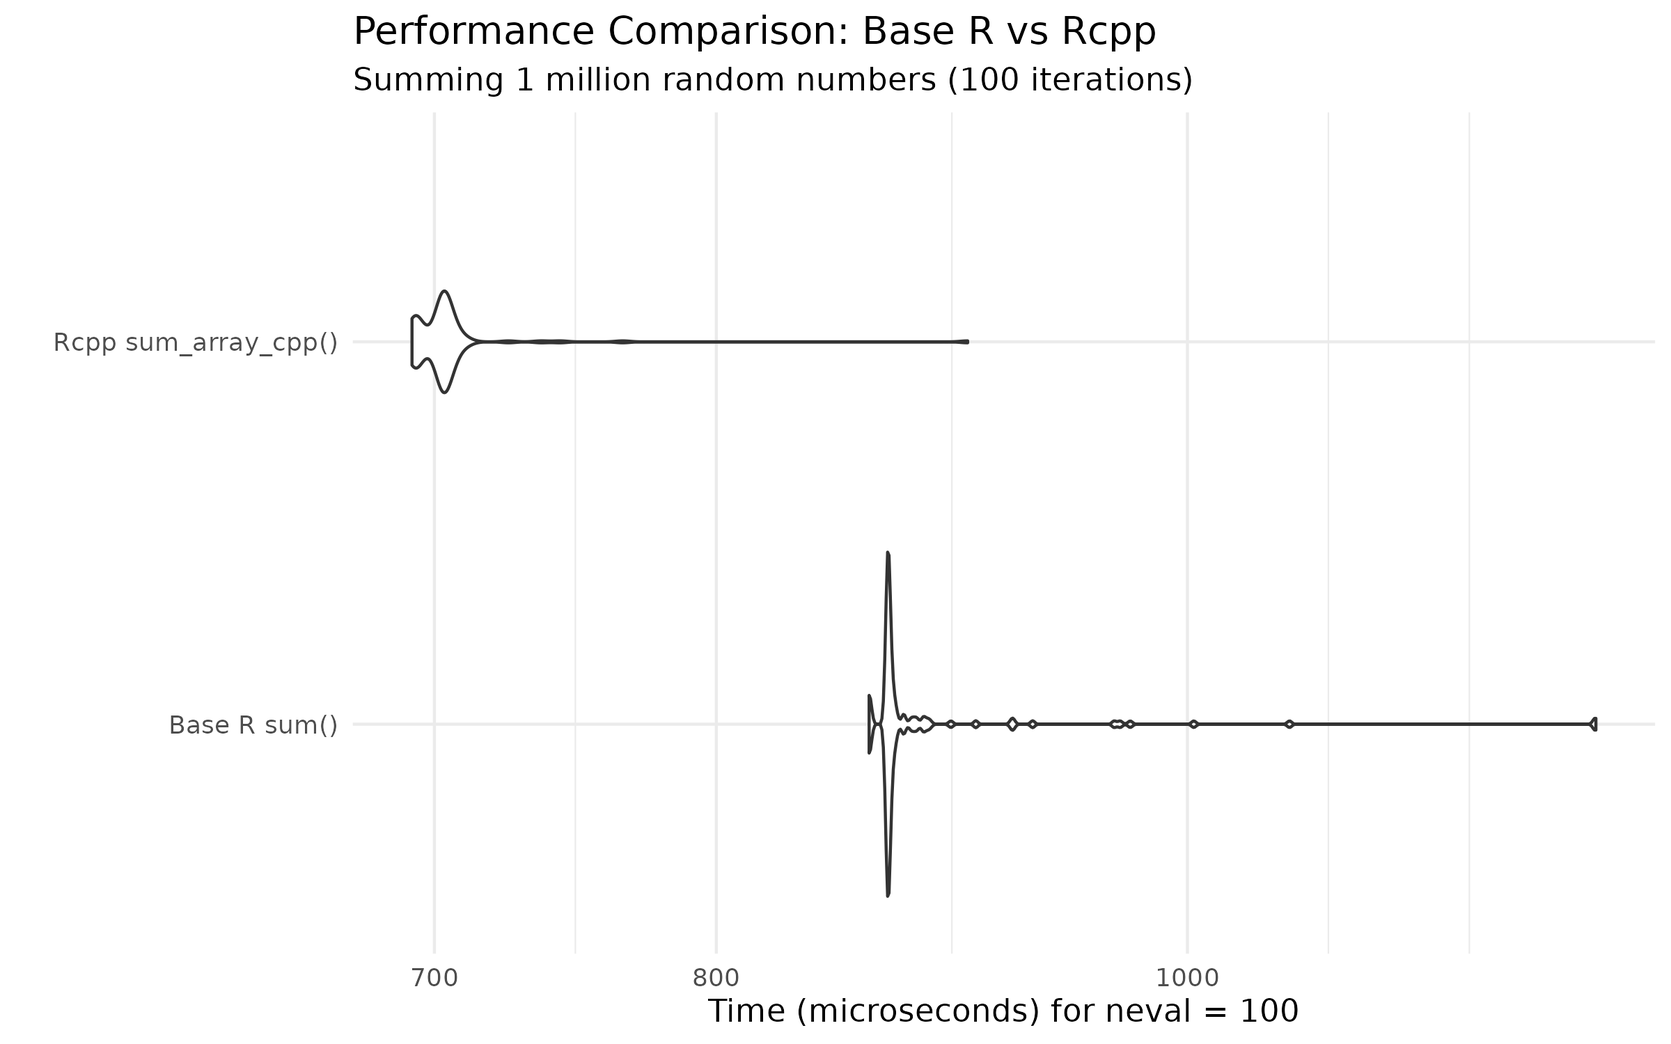
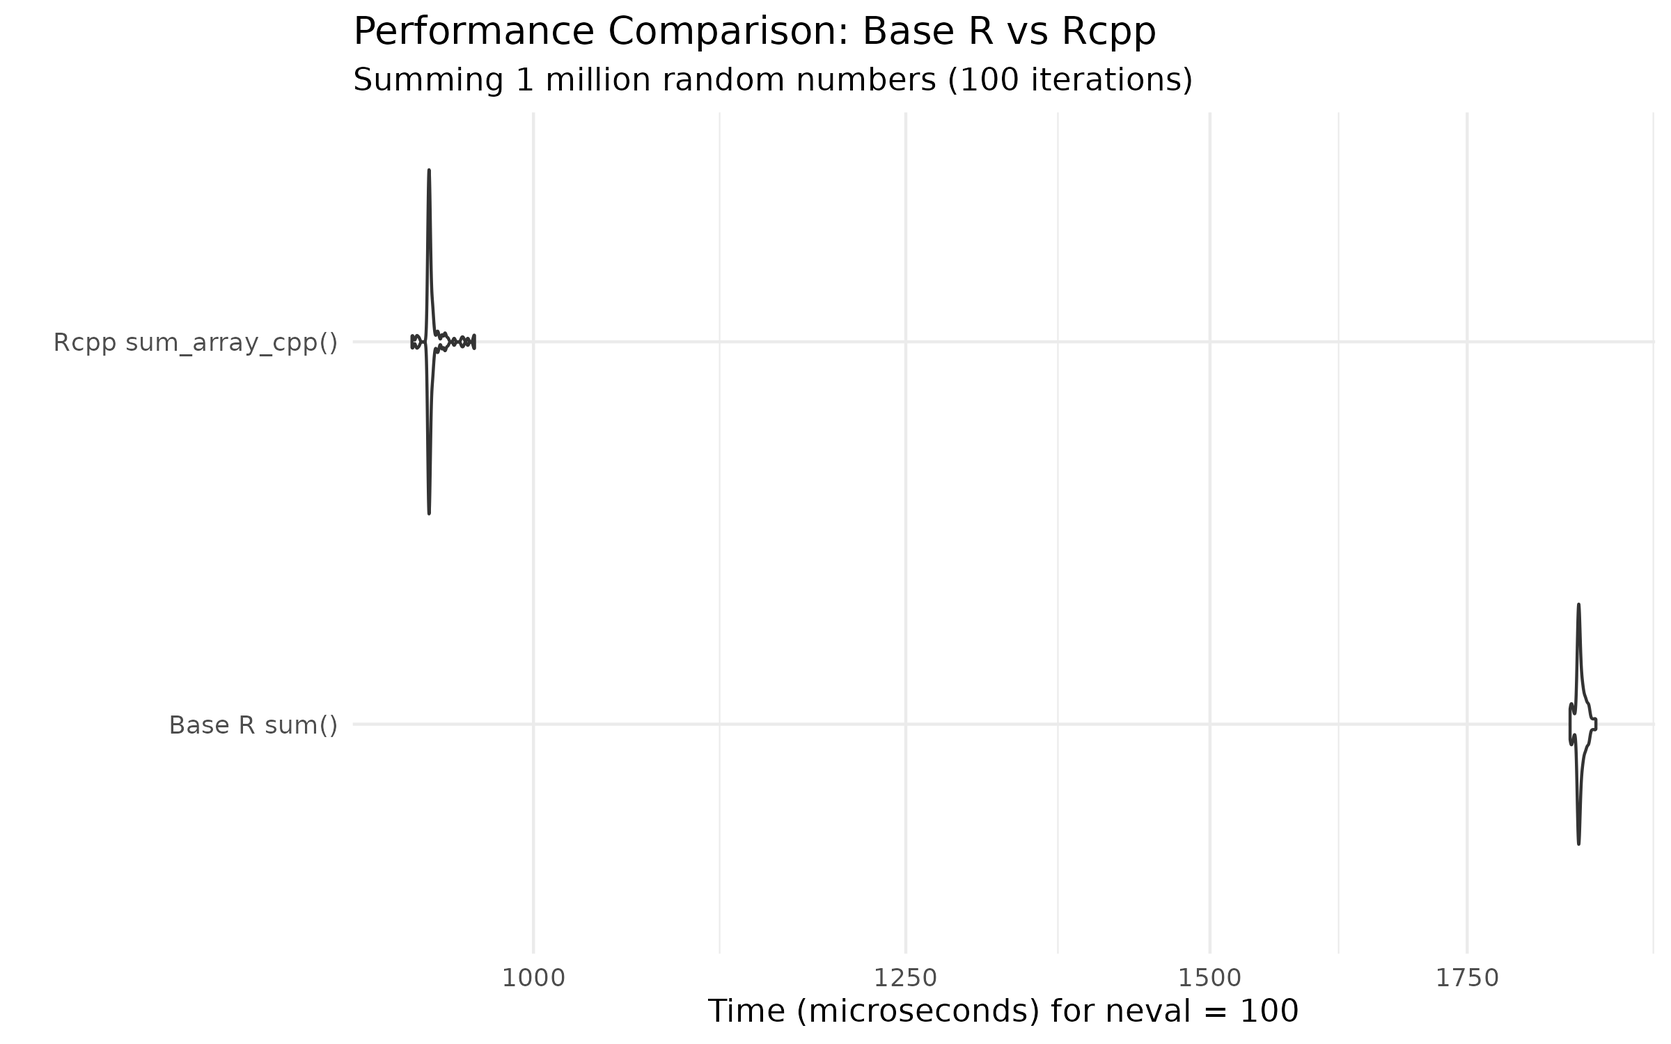
Built site for templateRpackage@0.0.0.9000: 4d5cc9d

diff --git a/404.html b/404.html
@@ -6,19 +6,19 @@
 <meta http-equiv="X-UA-Compatible" content="IE=edge">
 <meta name="viewport" content="width=device-width, initial-scale=1, shrink-to-fit=no">
 <title>Page not found (404) • templateRpackage</title>
-<script src="https://dereckmezquita.github.io/template-R-package/deps/jquery-3.6.0/jquery-3.6.0.min.js"></script><meta name="viewport" content="width=device-width, initial-scale=1, shrink-to-fit=no">
-<link href="https://dereckmezquita.github.io/template-R-package/deps/bootstrap-5.3.1/bootstrap.min.css" rel="stylesheet">
-<script src="https://dereckmezquita.github.io/template-R-package/deps/bootstrap-5.3.1/bootstrap.bundle.min.js"></script><link href="https://dereckmezquita.github.io/template-R-package/deps/font-awesome-6.5.2/css/all.min.css" rel="stylesheet">
-<link href="https://dereckmezquita.github.io/template-R-package/deps/font-awesome-6.5.2/css/v4-shims.min.css" rel="stylesheet">
-<script src="https://dereckmezquita.github.io/template-R-package/deps/headroom-0.11.0/headroom.min.js"></script><script src="https://dereckmezquita.github.io/template-R-package/deps/headroom-0.11.0/jQuery.headroom.min.js"></script><script src="https://dereckmezquita.github.io/template-R-package/deps/bootstrap-toc-1.0.1/bootstrap-toc.min.js"></script><script src="https://dereckmezquita.github.io/template-R-package/deps/clipboard.js-2.0.11/clipboard.min.js"></script><script src="https://dereckmezquita.github.io/template-R-package/deps/search-1.0.0/autocomplete.jquery.min.js"></script><script src="https://dereckmezquita.github.io/template-R-package/deps/search-1.0.0/fuse.min.js"></script><script src="https://dereckmezquita.github.io/template-R-package/deps/search-1.0.0/mark.min.js"></script><!-- pkgdown --><script src="https://dereckmezquita.github.io/template-R-package/pkgdown.js"></script><meta property="og:title" content="Page not found (404)">
+<script src="https://dereckmezquita.github.io/templateRpackage/deps/jquery-3.6.0/jquery-3.6.0.min.js"></script><meta name="viewport" content="width=device-width, initial-scale=1, shrink-to-fit=no">
+<link href="https://dereckmezquita.github.io/templateRpackage/deps/bootstrap-5.3.1/bootstrap.min.css" rel="stylesheet">
+<script src="https://dereckmezquita.github.io/templateRpackage/deps/bootstrap-5.3.1/bootstrap.bundle.min.js"></script><link href="https://dereckmezquita.github.io/templateRpackage/deps/font-awesome-6.5.2/css/all.min.css" rel="stylesheet">
+<link href="https://dereckmezquita.github.io/templateRpackage/deps/font-awesome-6.5.2/css/v4-shims.min.css" rel="stylesheet">
+<script src="https://dereckmezquita.github.io/templateRpackage/deps/headroom-0.11.0/headroom.min.js"></script><script src="https://dereckmezquita.github.io/templateRpackage/deps/headroom-0.11.0/jQuery.headroom.min.js"></script><script src="https://dereckmezquita.github.io/templateRpackage/deps/bootstrap-toc-1.0.1/bootstrap-toc.min.js"></script><script src="https://dereckmezquita.github.io/templateRpackage/deps/clipboard.js-2.0.11/clipboard.min.js"></script><script src="https://dereckmezquita.github.io/templateRpackage/deps/search-1.0.0/autocomplete.jquery.min.js"></script><script src="https://dereckmezquita.github.io/templateRpackage/deps/search-1.0.0/fuse.min.js"></script><script src="https://dereckmezquita.github.io/templateRpackage/deps/search-1.0.0/mark.min.js"></script><!-- pkgdown --><script src="https://dereckmezquita.github.io/templateRpackage/pkgdown.js"></script><meta property="og:title" content="Page not found (404)">
 </head>
 <body>
-    <a href="https://dereckmezquita.github.io/template-R-package/#main" class="visually-hidden-focusable">Skip to contents</a>
+    <a href="https://dereckmezquita.github.io/templateRpackage/#main" class="visually-hidden-focusable">Skip to contents</a>
 
 
     <nav class="navbar navbar-expand-lg fixed-top bg-light" data-bs-theme="light" aria-label="Site navigation"><div class="container">
 
-    <a class="navbar-brand me-2" href="https://dereckmezquita.github.io/template-R-package/index.html">templateRpackage</a>
+    <a class="navbar-brand me-2" href="https://dereckmezquita.github.io/templateRpackage/index.html">templateRpackage</a>
 
     <small class="nav-text text-muted me-auto" data-bs-toggle="tooltip" data-bs-placement="bottom" title="">0.0.0.9000</small>
 
@@ -29,11 +29,11 @@
 
     <div id="navbar" class="collapse navbar-collapse ms-3">
       <ul class="navbar-nav me-auto">
-<li class="nav-item"><a class="nav-link" href="https://dereckmezquita.github.io/template-R-package/reference/index.html">Reference</a></li>
+<li class="nav-item"><a class="nav-link" href="https://dereckmezquita.github.io/templateRpackage/reference/index.html">Reference</a></li>
 <li class="nav-item dropdown">
   <button class="nav-link dropdown-toggle" type="button" id="dropdown-articles" data-bs-toggle="dropdown" aria-expanded="false" aria-haspopup="true">Articles</button>
   <ul class="dropdown-menu" aria-labelledby="dropdown-articles">
-<li><a class="dropdown-item" href="https://dereckmezquita.github.io/template-R-package/articles/demo.html">Demonstrating templateRpackage</a></li>
+<li><a class="dropdown-item" href="https://dereckmezquita.github.io/templateRpackage/articles/demo.html">Demonstrating templateRpackage</a></li>
   </ul>
 </li>
       </ul>
@@ -41,7 +41,7 @@
 <li class="nav-item"><form class="form-inline" role="search">
  <input class="form-control" type="search" name="search-input" id="search-input" autocomplete="off" aria-label="Search site" placeholder="Search for" data-search-index="search.json">
 </form></li>
-<li class="nav-item"><a class="external-link nav-link" href="https://github.com/dereckmezquita/template-R-package" aria-label="GitHub repository"><span class="fa fa-github"></span></a></li>
+<li class="nav-item"><a class="external-link nav-link" href="https://github.com/dereckmezquita/templateRpackage" aria-label="GitHub repository"><span class="fa fa-github"></span></a></li>
       </ul>
 </div>
 

diff --git a/news/index.html b/news/index.html
@@ -22,7 +22,7 @@
   </ul></li>
       </ul><ul class="navbar-nav"><li class="nav-item"><form class="form-inline" role="search">
  <input class="form-control" type="search" name="search-input" id="search-input" autocomplete="off" aria-label="Search site" placeholder="Search for" data-search-index="../search.json"></form></li>
-<li class="nav-item"><a class="external-link nav-link" href="https://github.com/dereckmezquita/template-R-package" aria-label="GitHub repository"><span class="fa fa-github"></span></a></li>
+<li class="nav-item"><a class="external-link nav-link" href="https://github.com/dereckmezquita/templateRpackage" aria-label="GitHub repository"><span class="fa fa-github"></span></a></li>
       </ul></div>
 
 
@@ -32,10 +32,33 @@
   <main id="main" class="col-md-9"><div class="page-header">
 
       <h1>Changelog</h1>
-      <small>Source: <a href="https://github.com/dereckmezquita/template-R-package/blob/master/NEWS.md" class="external-link"><code>NEWS.md</code></a></small>
+      <small>Source: <a href="https://github.com/dereckmezquita/templateRpackage/blob/master/NEWS.md" class="external-link"><code>NEWS.md</code></a></small>
     </div>
 
-  </main></div>
+    <div class="section level2">
+<h2 class="pkg-version" data-toc-text="0.0.1" id="templaterpackage-v001">templateRpackage <a href="https://github.com/dereckmezquita/templateRpackage/milestone/1" class="external-link">v0.0.1</a>
+<a class="anchor" aria-label="anchor" href="#templaterpackage-v001"></a></h2>
+<div class="section level3">
+<h3 id="breaking-changes-0-0-1">BREAKING CHANGES<a class="anchor" aria-label="anchor" href="#breaking-changes-0-0-1"></a></h3>
+</div>
+<div class="section level3">
+<h3 id="new-features-0-0-1">NEW FEATURES<a class="anchor" aria-label="anchor" href="#new-features-0-0-1"></a></h3>
+</div>
+<div class="section level3">
+<h3 id="improvements-0-0-1">IMPROVEMENTS<a class="anchor" aria-label="anchor" href="#improvements-0-0-1"></a></h3>
+</div>
+<div class="section level3">
+<h3 id="documentation-0-0-1">DOCUMENTATION<a class="anchor" aria-label="anchor" href="#documentation-0-0-1"></a></h3>
+</div>
+<div class="section level3">
+<h3 id="development-0-0-1">DEVELOPMENT<a class="anchor" aria-label="anchor" href="#development-0-0-1"></a></h3>
+</div>
+<div class="section level3">
+<h3 id="notes-0-0-1">NOTES<a class="anchor" aria-label="anchor" href="#notes-0-0-1"></a></h3>
+</div>
+</div>
+  </main><aside class="col-md-3"><nav id="toc" aria-label="Table of contents"><h2>On this page</h2>
+    </nav></aside></div>
 
 
     <footer><div class="pkgdown-footer-left">

diff --git a/articles/demo.html b/articles/demo.html
@@ -41,7 +41,7 @@
 <li class="nav-item"><form class="form-inline" role="search">
  <input class="form-control" type="search" name="search-input" id="search-input" autocomplete="off" aria-label="Search site" placeholder="Search for" data-search-index="../search.json">
 </form></li>
-<li class="nav-item"><a class="external-link nav-link" href="https://github.com/dereckmezquita/template-R-package" aria-label="GitHub repository"><span class="fa fa-github"></span></a></li>
+<li class="nav-item"><a class="external-link nav-link" href="https://github.com/dereckmezquita/templateRpackage" aria-label="GitHub repository"><span class="fa fa-github"></span></a></li>
       </ul>
 </div>
 
@@ -58,7 +58,7 @@
       <h1>Demonstrating templateRpackage</h1>
             
       
-      <small class="dont-index">Source: <a href="https://github.com/dereckmezquita/template-R-package/blob/master/vignettes/demo.Rmd" class="external-link"><code>vignettes/demo.Rmd</code></a></small>
+      <small class="dont-index">Source: <a href="https://github.com/dereckmezquita/templateRpackage/blob/master/vignettes/demo.Rmd" class="external-link"><code>vignettes/demo.Rmd</code></a></small>
       <div class="d-none name"><code>demo.Rmd</code></div>
     </div>
 
@@ -132,9 +132,9 @@ base R’s <code><a href="https://rdrr.io/r/base/sum.html" class="external-link"
 <span></span>
 <span><span class="fu"><a href="https://rdrr.io/r/base/print.html" class="external-link">print</a></span><span class="op">(</span><span class="va">mb</span><span class="op">)</span></span>
 <span><span class="co">#&gt; Unit: microseconds</span></span>
-<span><span class="co">#&gt;                  expr     min       lq     mean   median       uq      max</span></span>
-<span><span class="co">#&gt;          Base R sum() 860.047 867.5975 884.0566 868.0165 870.7625 1213.467</span></span>
-<span><span class="co">#&gt;  Rcpp sum_array_cpp() 692.610 695.1615 704.5312 702.8320 704.2795  901.143</span></span>
+<span><span class="co">#&gt;                  expr      min       lq      mean   median       uq      max</span></span>
+<span><span class="co">#&gt;          Base R sum() 1861.301 1870.258 1872.9103 1871.541 1875.643 1890.335</span></span>
+<span><span class="co">#&gt;  Rcpp sum_array_cpp()  929.774  939.046  941.2256  939.567  941.125  965.280</span></span>
 <span><span class="co">#&gt;  neval</span></span>
 <span><span class="co">#&gt;    100</span></span>
 <span><span class="co">#&gt;    100</span></span></code></pre></div>

diff --git a/authors.html b/authors.html
@@ -22,7 +22,7 @@
   </ul></li>
       </ul><ul class="navbar-nav"><li class="nav-item"><form class="form-inline" role="search">
  <input class="form-control" type="search" name="search-input" id="search-input" autocomplete="off" aria-label="Search site" placeholder="Search for" data-search-index="search.json"></form></li>
-<li class="nav-item"><a class="external-link nav-link" href="https://github.com/dereckmezquita/template-R-package" aria-label="GitHub repository"><span class="fa fa-github"></span></a></li>
+<li class="nav-item"><a class="external-link nav-link" href="https://github.com/dereckmezquita/templateRpackage" aria-label="GitHub repository"><span class="fa fa-github"></span></a></li>
       </ul></div>
 
 
@@ -45,15 +45,15 @@
 
     <div class="section level2">
       <h2 id="citation">Citation</h2>
-      <p><small class="dont-index">Source: <a href="https://github.com/dereckmezquita/template-R-package/blob/master/inst/CITATION" class="external-link"><code>inst/CITATION</code></a></small></p>
+      <p><small class="dont-index">Source: <a href="https://github.com/dereckmezquita/templateRpackage/blob/master/inst/CITATION" class="external-link"><code>inst/CITATION</code></a></small></p>
 
-      <p>Mezquita, D. (2024). dereck: A personal development package by Dereck Mezquita for various data analysis and visualisation tasks. Intended as a staging ground for experimental code that may later be factored into standalone packages. R package version 2.0.0. Available at https://github.com/dereckmezquita/dereck</p>
-      <pre>@Manual{dereck-2024,
-  title = {dereck: A personal development package by Dereck Mezquita for various data analysis and visualisation tasks. Intended as a staging ground for experimental code that may later be factored into standalone packages.},
+      <p>Mezquita, D. (2026). templateRpackage: A Template R Package with Rcpp Support. R package version 0.0.0.9000. Available at https://github.com/dereckmezquita/templateRpackage</p>
+      <pre>@Manual{templateRpackage-2026,
+  title = {templateRpackage: A Template R Package with Rcpp Support},
   author = {Dereck Mezquita},
-  year = {2024},
-  note = {R package version 2.0.0},
-  url = {https://github.com/dereckmezquita/dereck},
+  year = {2026},
+  note = {R package version 0.0.0.9000},
+  url = {https://github.com/dereckmezquita/templateRpackage},
 }</pre>
     </div>
 

diff --git a/reference/sum_array_cpp.html b/reference/sum_array_cpp.html
@@ -22,7 +22,7 @@
   </ul></li>
       </ul><ul class="navbar-nav"><li class="nav-item"><form class="form-inline" role="search">
  <input class="form-control" type="search" name="search-input" id="search-input" autocomplete="off" aria-label="Search site" placeholder="Search for" data-search-index="../search.json"></form></li>
-<li class="nav-item"><a class="external-link nav-link" href="https://github.com/dereckmezquita/template-R-package" aria-label="GitHub repository"><span class="fa fa-github"></span></a></li>
+<li class="nav-item"><a class="external-link nav-link" href="https://github.com/dereckmezquita/templateRpackage" aria-label="GitHub repository"><span class="fa fa-github"></span></a></li>
       </ul></div>
 
 
@@ -32,7 +32,7 @@
   <main id="main" class="col-md-9"><div class="page-header">
 
       <h1>Sum a numeric vector using loop unrolling</h1>
-      <small class="dont-index">Source: <a href="https://github.com/dereckmezquita/template-R-package/blob/master/R/RcppExports.R" class="external-link"><code>R/RcppExports.R</code></a></small>
+      <small class="dont-index">Source: <a href="https://github.com/dereckmezquita/templateRpackage/blob/master/R/RcppExports.R" class="external-link"><code>R/RcppExports.R</code></a></small>
       <div class="d-none name"><code>sum_array_cpp.Rd</code></div>
     </div>
 

diff --git a/index.html b/index.html
@@ -43,7 +43,7 @@
 <li class="nav-item"><form class="form-inline" role="search">
  <input class="form-control" type="search" name="search-input" id="search-input" autocomplete="off" aria-label="Search site" placeholder="Search for" data-search-index="search.json">
 </form></li>
-<li class="nav-item"><a class="external-link nav-link" href="https://github.com/dereckmezquita/template-R-package" aria-label="GitHub repository"><span class="fa fa-github"></span></a></li>
+<li class="nav-item"><a class="external-link nav-link" href="https://github.com/dereckmezquita/templateRpackage" aria-label="GitHub repository"><span class="fa fa-github"></span></a></li>
       </ul>
 </div>
 
@@ -56,8 +56,8 @@ What the package does (one paragraph).
   </main><aside class="col-md-3"><div class="links">
 <h2 data-toc-skip>Links</h2>
 <ul class="list-unstyled">
-<li><a href="https://github.com/dereckmezquita/template-R-package/" class="external-link">Browse source code</a></li>
-<li><a href="https://github.com/dereckmezquita/template-R-package/issues" class="external-link">Report a bug</a></li>
+<li><a href="https://github.com/dereckmezquita/templateRpackage/" class="external-link">Browse source code</a></li>
+<li><a href="https://github.com/dereckmezquita/templateRpackage/issues" class="external-link">Report a bug</a></li>
 </ul>
 </div>
 

diff --git a/CONTRIBUTING.html b/CONTRIBUTING.html
@@ -22,7 +22,7 @@
   </ul></li>
       </ul><ul class="navbar-nav"><li class="nav-item"><form class="form-inline" role="search">
  <input class="form-control" type="search" name="search-input" id="search-input" autocomplete="off" aria-label="Search site" placeholder="Search for" data-search-index="search.json"></form></li>
-<li class="nav-item"><a class="external-link nav-link" href="https://github.com/dereckmezquita/template-R-package" aria-label="GitHub repository"><span class="fa fa-github"></span></a></li>
+<li class="nav-item"><a class="external-link nav-link" href="https://github.com/dereckmezquita/templateRpackage" aria-label="GitHub repository"><span class="fa fa-github"></span></a></li>
       </ul></div>
 
 
@@ -32,7 +32,7 @@
   <main id="main" class="col-md-9"><div class="page-header">
 
       <h1>Contributing to templateRpackage</h1>
-      <small class="dont-index">Source: <a href="https://github.com/dereckmezquita/template-R-package/blob/master/CONTRIBUTING.md" class="external-link"><code>CONTRIBUTING.md</code></a></small>
+      <small class="dont-index">Source: <a href="https://github.com/dereckmezquita/templateRpackage/blob/master/CONTRIBUTING.md" class="external-link"><code>CONTRIBUTING.md</code></a></small>
     </div>
 
 <div id="contributing-to-templaterpackage" class="section level1">

diff --git a/reference/add.html b/reference/add.html
@@ -22,7 +22,7 @@
   </ul></li>
       </ul><ul class="navbar-nav"><li class="nav-item"><form class="form-inline" role="search">
  <input class="form-control" type="search" name="search-input" id="search-input" autocomplete="off" aria-label="Search site" placeholder="Search for" data-search-index="../search.json"></form></li>
-<li class="nav-item"><a class="external-link nav-link" href="https://github.com/dereckmezquita/template-R-package" aria-label="GitHub repository"><span class="fa fa-github"></span></a></li>
+<li class="nav-item"><a class="external-link nav-link" href="https://github.com/dereckmezquita/templateRpackage" aria-label="GitHub repository"><span class="fa fa-github"></span></a></li>
       </ul></div>
 
 
@@ -32,7 +32,7 @@
   <main id="main" class="col-md-9"><div class="page-header">
 
       <h1>Add two numbers</h1>
-      <small class="dont-index">Source: <a href="https://github.com/dereckmezquita/template-R-package/blob/master/R/add.R" class="external-link"><code>R/add.R</code></a></small>
+      <small class="dont-index">Source: <a href="https://github.com/dereckmezquita/templateRpackage/blob/master/R/add.R" class="external-link"><code>R/add.R</code></a></small>
       <div class="d-none name"><code>add.Rd</code></div>
     </div>
 

diff --git a/articles/index.html b/articles/index.html
@@ -22,7 +22,7 @@
   </ul></li>
       </ul><ul class="navbar-nav"><li class="nav-item"><form class="form-inline" role="search">
  <input class="form-control" type="search" name="search-input" id="search-input" autocomplete="off" aria-label="Search site" placeholder="Search for" data-search-index="../search.json"></form></li>
-<li class="nav-item"><a class="external-link nav-link" href="https://github.com/dereckmezquita/template-R-package" aria-label="GitHub repository"><span class="fa fa-github"></span></a></li>
+<li class="nav-item"><a class="external-link nav-link" href="https://github.com/dereckmezquita/templateRpackage" aria-label="GitHub repository"><span class="fa fa-github"></span></a></li>
       </ul></div>
 
 

diff --git a/reference/index.html b/reference/index.html
@@ -22,7 +22,7 @@
   </ul></li>
       </ul><ul class="navbar-nav"><li class="nav-item"><form class="form-inline" role="search">
  <input class="form-control" type="search" name="search-input" id="search-input" autocomplete="off" aria-label="Search site" placeholder="Search for" data-search-index="../search.json"></form></li>
-<li class="nav-item"><a class="external-link nav-link" href="https://github.com/dereckmezquita/template-R-package" aria-label="GitHub repository"><span class="fa fa-github"></span></a></li>
+<li class="nav-item"><a class="external-link nav-link" href="https://github.com/dereckmezquita/templateRpackage" aria-label="GitHub repository"><span class="fa fa-github"></span></a></li>
       </ul></div>
 
 

diff --git a/LICENSE-text.html b/LICENSE-text.html
@@ -22,7 +22,7 @@
   </ul></li>
       </ul><ul class="navbar-nav"><li class="nav-item"><form class="form-inline" role="search">
  <input class="form-control" type="search" name="search-input" id="search-input" autocomplete="off" aria-label="Search site" placeholder="Search for" data-search-index="search.json"></form></li>
-<li class="nav-item"><a class="external-link nav-link" href="https://github.com/dereckmezquita/template-R-package" aria-label="GitHub repository"><span class="fa fa-github"></span></a></li>
+<li class="nav-item"><a class="external-link nav-link" href="https://github.com/dereckmezquita/templateRpackage" aria-label="GitHub repository"><span class="fa fa-github"></span></a></li>
       </ul></div>
 
 

diff --git a/articles/demo.md b/articles/demo.md
@@ -4,9 +4,9 @@
 
 This vignette demonstrates the two main functions in `templateRpackage`:
 
-1.  [`add()`](https://dereckmezquita.github.io/template-R-package/reference/add.md) -
+1.  [`add()`](https://dereckmezquita.github.io/templateRpackage/reference/add.md) -
     A simple R function to add two numbers
-2.  [`sum_array_cpp()`](https://dereckmezquita.github.io/template-R-package/reference/sum_array_cpp.md) -
+2.  [`sum_array_cpp()`](https://dereckmezquita.github.io/templateRpackage/reference/sum_array_cpp.md) -
     An Rcpp function to sum a numeric vector using loop unrolling
 
 ``` r
@@ -16,7 +16,7 @@ box::use(templateRpackage[ add, sum_array_cpp ])
 ## Using the add() function
 
 The
-[`add()`](https://dereckmezquita.github.io/template-R-package/reference/add.md)
+[`add()`](https://dereckmezquita.github.io/templateRpackage/reference/add.md)
 function is a simple R function that adds two numbers:
 
 ``` r
@@ -31,7 +31,7 @@ add(-5, 5)
 ## Using the sum_array_cpp() function
 
 The
-[`sum_array_cpp()`](https://dereckmezquita.github.io/template-R-package/reference/sum_array_cpp.md)
+[`sum_array_cpp()`](https://dereckmezquita.github.io/templateRpackage/reference/sum_array_cpp.md)
 function sums a numeric vector using C++ with loop unrolling for
 performance:
 
@@ -50,7 +50,7 @@ sum_array_cpp(x)
 ## Benchmarking: Rcpp vs Base R
 
 Let’s compare the performance of
-[`sum_array_cpp()`](https://dereckmezquita.github.io/template-R-package/reference/sum_array_cpp.md)
+[`sum_array_cpp()`](https://dereckmezquita.github.io/templateRpackage/reference/sum_array_cpp.md)
 against base R’s [`sum()`](https://rdrr.io/r/base/sum.html):
 
 ``` r
@@ -72,9 +72,9 @@ mb <- microbenchmark(
 
 print(mb)
 #> Unit: microseconds
-#>                  expr     min       lq     mean   median       uq      max
-#>          Base R sum() 860.047 867.5975 884.0566 868.0165 870.7625 1213.467
-#>  Rcpp sum_array_cpp() 692.610 695.1615 704.5312 702.8320 704.2795  901.143
+#>                  expr      min       lq      mean   median       uq      max
+#>          Base R sum() 1861.301 1870.258 1872.9103 1871.541 1875.643 1890.335
+#>  Rcpp sum_array_cpp()  929.774  939.046  941.2256  939.567  941.125  965.280
 #>  neval
 #>    100
 #>    100
